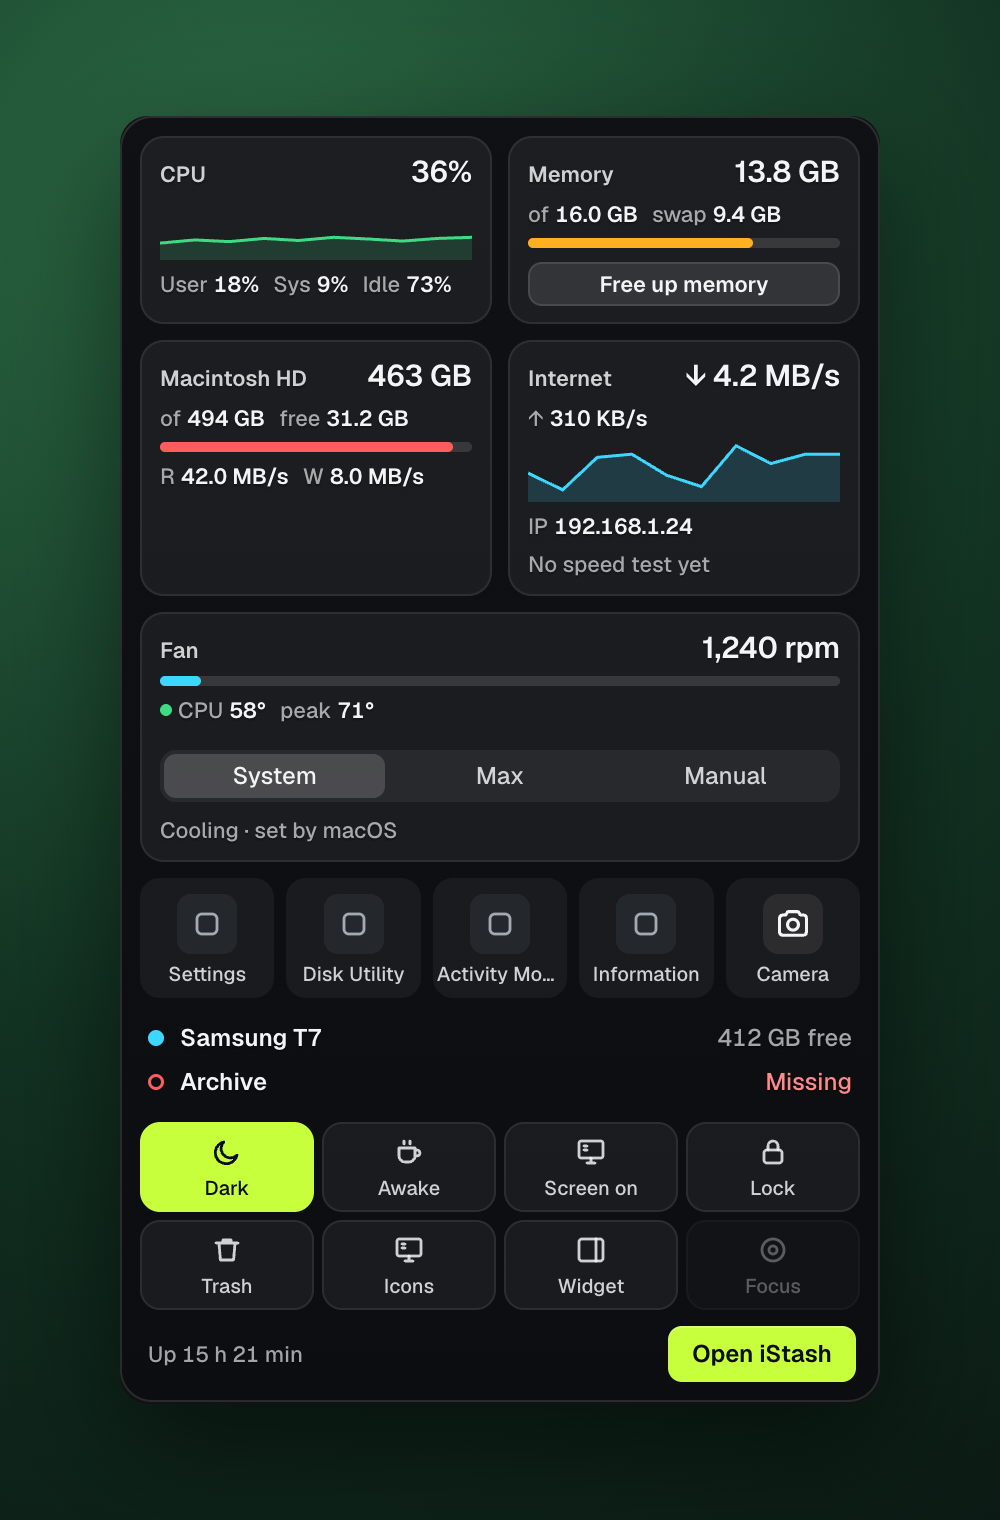
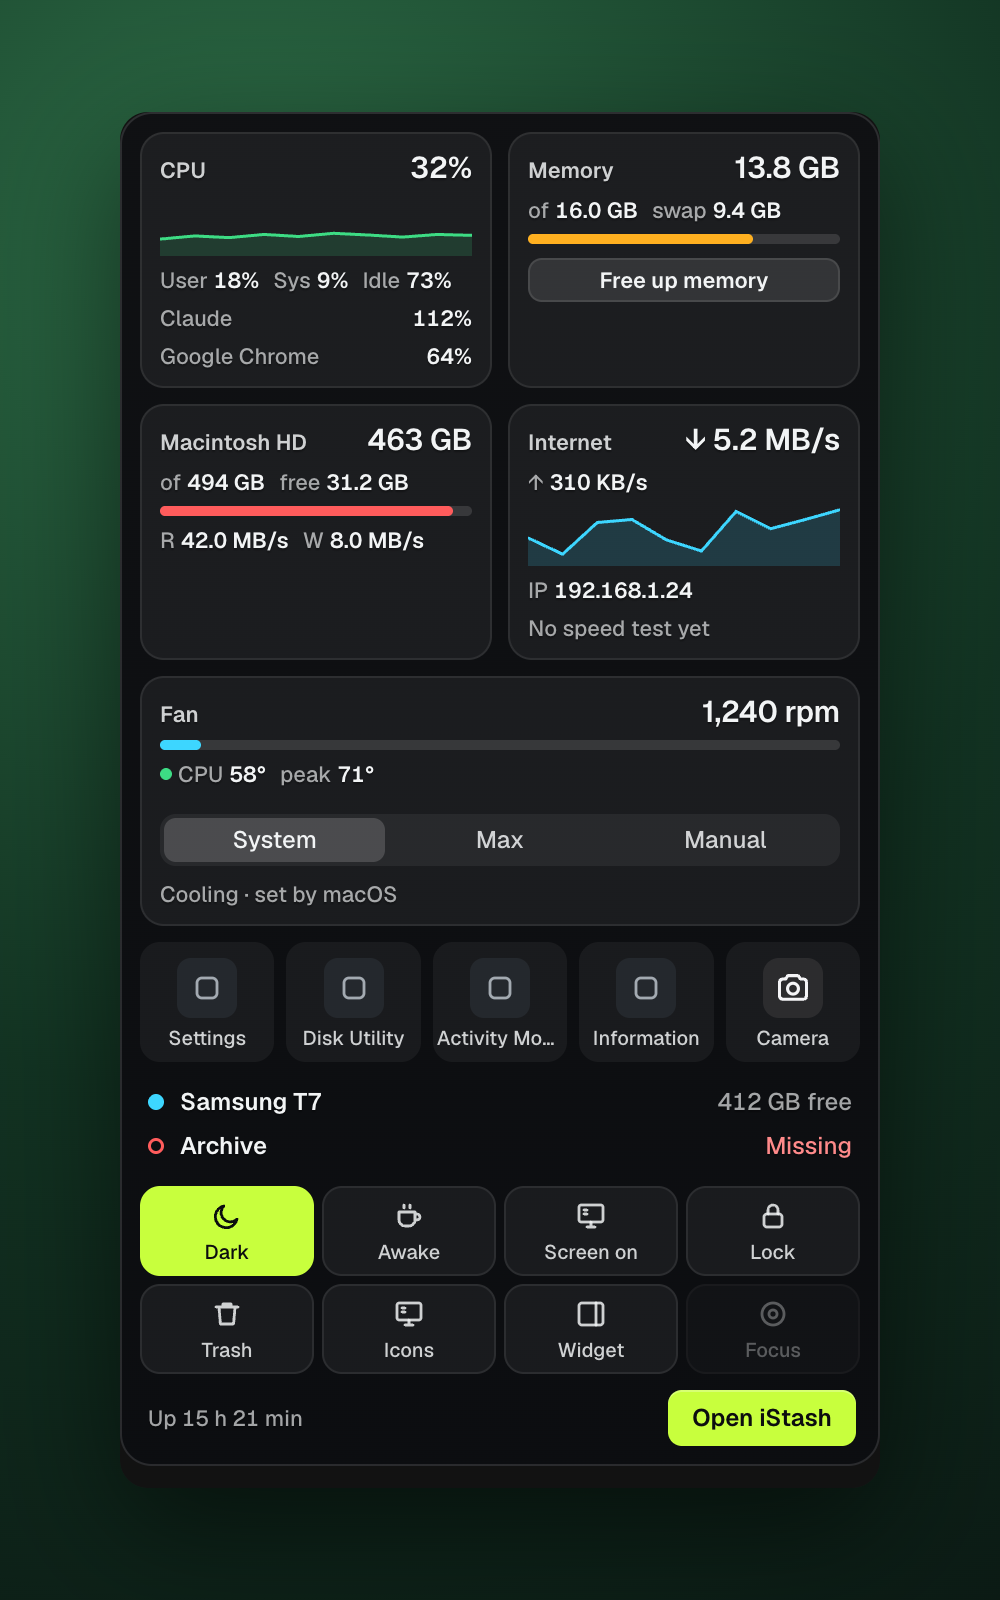
Docs: CPU list in the README and handoff; fresh Memory and menu-bar screenshots

diff --git a/HANDOFF.md b/HANDOFF.md
@@ -11,7 +11,7 @@ identifier still use the old name on purpose; see "Names that must not change" b
 | Area | State |
 |---|---|
 | Rust engine (`crates/stowaway-core`, `crates/stowaway-cli`) | Done for v0.1: scan, rules, mover with journal and crash recovery, drives, eject guard, metrics, forecast. Hardened with fault-injection tests (T16). |
-| App (`app/`, Tauri 2) | Shipping. Overview, Offload, Drives (cable map and per-drive pages), Memory (with Focus), Internet (speed test), Clean, Settings, menu-bar panel (with fan control and app shortcuts), edge widget, notch island, camera window. Runs the engine itself; there is no separate login agent yet. |
+| App (`app/`, Tauri 2) | Shipping. Overview, Offload, Drives (cable map and per-drive pages), Memory (apps by memory and CPU, Focus), Internet (speed test), Clean, Settings, menu-bar panel (with fan control and app shortcuts), edge widget, notch island, camera window. Runs the engine itself; there is no separate login agent yet. |
 | Releases | Published automatically from `main`. Latest: **0.1.21** (apps by CPU; 0.1.20 is the first signed with the iStash certificate). Installed copies update themselves. |
 | Repository | [`wajedhossainbd/iStash`](https://github.com/wajedhossainbd/iStash), public, GPL 3.0. `main` is protected against force-pushes and deletion (owner included); normal pushes are allowed. |
 | Owner's Mac | iStash 0.1.21 in `/Applications/iStash.app`, fan helper installed, Open at login on. 28 folders live on "Mac 1TB SSD" and "Mac 500 SSD": 5 moved by iStash, the rest linked by hand before it existed. |
@@ -95,6 +95,11 @@ Changing any of these breaks existing installs or moved data:
 - Freeing memory without a password works by applying memory pressure (`memory_pressure`), which pushes idle memory
   to swap. `purge` needs an administrator.
 - macOS can't cap another app's memory; Focus lowers other apps' priority (`taskpolicy -b`) instead.
+- Per-app CPU: the sampler (`metrics.rs`) reads only the owner's processes and returns a share of the whole Mac;
+  `mem.rs` multiplies by the core count (100% = one core, as Activity Monitor) and adds other users' busy processes
+  (WindowServer, kernel_task) from `ps`, which reports CPU for any process without root.
+- External drive temperature: USB drives don't report it to macOS apps without a third-party kernel extension, so
+  it isn't offered. NVMe drives over Thunderbolt could.
 - A page that redraws on every poll replaces controls under the mouse; morphdom keeps unchanged nodes.
 - Fan speed needs root. The fan helper is a setuid copy of the app binary in `/Library/PrivilegedHelperTools`; as
   root, `main()` runs only `--fan auto|max|rpm N`. Apple silicon needs the `Ftst` key set before `F0Md` takes.

diff --git a/README.md b/README.md
@@ -49,6 +49,7 @@ iStash does the move safely, keeps track of every link, and tells you when a dri
 | **Any test server** | Search Speedtest's servers by city, country or provider, pick a recently used one, or test against any file. |
 | **Drive activity** | Read and write speed for each drive, its average, and when it was last busy. |
 | **Memory forecast** | Live CPU, memory, disk and network, with a warning before macOS runs out of memory. |
+| **What's using the CPU** | The apps and macOS processes using the most CPU, busiest first, counted like Activity Monitor (100% is one core). The two busiest also show in the menu-bar panel. |
 | **Focus** | Give one app priority: the other apps run in the background until you stop it. |
 | **Clean** | Free up memory with no password, and clear caches, logs, Xcode build files and old temporary files, shown as a glowing orb that pulls the clutter in and tells you what was freed. |
 | **Scheduled cleaning** | Clean daily, weekly, monthly, or once the files pass a size such as 5 GB, and only files older than you choose. |
@@ -82,7 +83,7 @@ iStash does the move safely, keeps track of every link, and tells you when a dri
     <td colspan="2"><img src="docs/screenshots/island.png" alt="The notch island with an amber and an RGB glow"><br><sub><b>Notch island</b> · notifications from the top of the screen, in the glow you pick</sub></td>
   </tr>
   <tr>
-    <td><img src="docs/screenshots/memory.png" alt="Memory: what is using it, and Focus"><br><sub><b>Memory</b> · what's using it, and Focus</sub></td>
+    <td><img src="docs/screenshots/memory.png" alt="Memory: the apps using the most memory and CPU, and Focus"><br><sub><b>Memory</b> · what's using memory and CPU, and Focus</sub></td>
     <td><img src="docs/screenshots/clean.png" alt="Clean: freeing memory"><br><sub><b>Clean</b> · freeing memory, by hand or on a schedule</sub></td>
   </tr>
 </table>
